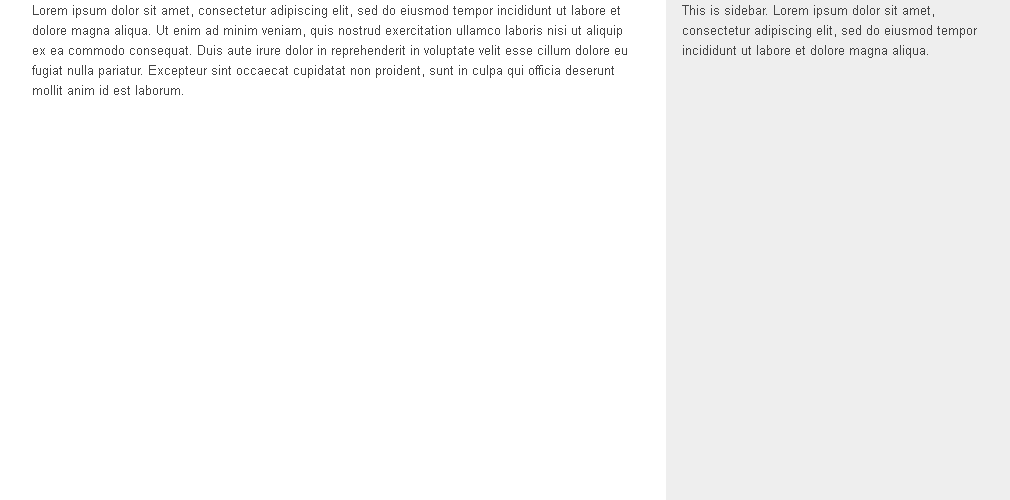
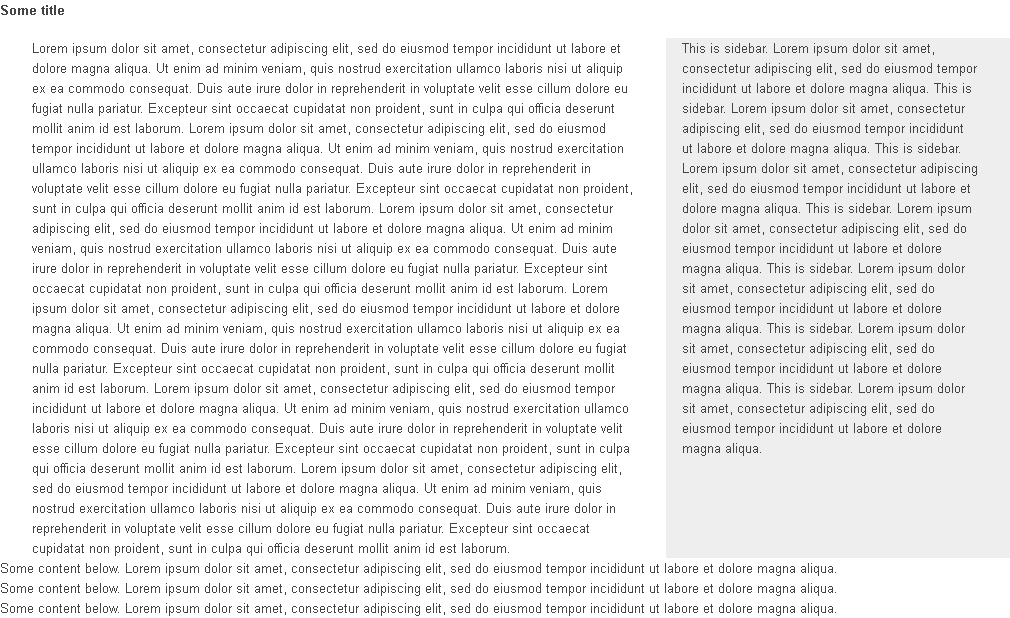
RG-1340 make content-layout's responsiveness configurable
Former-commit-id: f87f233e83b9f64035dc9dc5b3d9487c27fd85a3

diff --git a/components/content-layout/content-layout.examples.html b/components/content-layout/content-layout.examples.html
@@ -50,7 +50,7 @@
         <div>
           <h4>Some title</h4>
         </div>
-        <ContentLayout className="content">
+        <ContentLayout>
           <Sidebar className="sidebar">
             This is sidebar. Lorem ipsum dolor sit amet, consectetur adipiscing elit, sed do eiusmod tempor incididunt ut labore et dolore magna aliqua.
             This is sidebar. Lorem ipsum dolor sit amet, consectetur adipiscing elit, sed do eiusmod tempor incididunt ut labore et dolore magna aliqua.
@@ -88,9 +88,6 @@
       padding: 0;
     }
 
-    :global(.content) {
-      height: 500px;
-    }
     :global(.sidebar) {
       background-color: #EEEEEE;
     }
@@ -103,13 +100,32 @@
      import Sidebar from 'ring-ui/components/content-layout/sidebar';
 
      const renderLayoutDemo = () => (
-       <ContentLayout className="content">
-         <Sidebar className="sidebar" right={true}>
-           This is sidebar. Lorem ipsum dolor sit amet, consectetur adipiscing elit, sed do eiusmod tempor incididunt ut labore et dolore magna aliqua.
-         </Sidebar>
-         Lorem ipsum dolor sit amet, consectetur adipiscing elit, sed do eiusmod tempor incididunt ut labore et dolore magna aliqua. Ut enim ad minim veniam, quis nostrud exercitation ullamco laboris nisi ut aliquip ex ea commodo consequat. Duis aute irure dolor in reprehenderit in voluptate velit esse cillum dolore eu fugiat nulla pariatur. Excepteur sint occaecat cupidatat non proident, sunt in culpa qui officia deserunt mollit anim id est laborum.
-       </ContentLayout>
-     );
+       <div>
+         <div>
+           <h4>Some title</h4>
+         </div>
+         <ContentLayout>
+           <Sidebar className="sidebar" right={true}>
+             This is sidebar. Lorem ipsum dolor sit amet, consectetur adipiscing elit, sed do eiusmod tempor incididunt ut labore et dolore magna aliqua.
+             This is sidebar. Lorem ipsum dolor sit amet, consectetur adipiscing elit, sed do eiusmod tempor incididunt ut labore et dolore magna aliqua.
+             This is sidebar. Lorem ipsum dolor sit amet, consectetur adipiscing elit, sed do eiusmod tempor incididunt ut labore et dolore magna aliqua.
+             This is sidebar. Lorem ipsum dolor sit amet, consectetur adipiscing elit, sed do eiusmod tempor incididunt ut labore et dolore magna aliqua.
+             This is sidebar. Lorem ipsum dolor sit amet, consectetur adipiscing elit, sed do eiusmod tempor incididunt ut labore et dolore magna aliqua.
+             This is sidebar. Lorem ipsum dolor sit amet, consectetur adipiscing elit, sed do eiusmod tempor incididunt ut labore et dolore magna aliqua.
+             This is sidebar. Lorem ipsum dolor sit amet, consectetur adipiscing elit, sed do eiusmod tempor incididunt ut labore et dolore magna aliqua.
+           </Sidebar>
+           Lorem ipsum dolor sit amet, consectetur adipiscing elit, sed do eiusmod tempor incididunt ut labore et dolore magna aliqua. Ut enim ad minim veniam, quis nostrud exercitation ullamco laboris nisi ut aliquip ex ea commodo consequat. Duis aute irure dolor in reprehenderit in voluptate velit esse cillum dolore eu fugiat nulla pariatur. Excepteur sint occaecat cupidatat non proident, sunt in culpa qui officia deserunt mollit anim id est laborum.
+           Lorem ipsum dolor sit amet, consectetur adipiscing elit, sed do eiusmod tempor incididunt ut labore et dolore magna aliqua. Ut enim ad minim veniam, quis nostrud exercitation ullamco laboris nisi ut aliquip ex ea commodo consequat. Duis aute irure dolor in reprehenderit in voluptate velit esse cillum dolore eu fugiat nulla pariatur. Excepteur sint occaecat cupidatat non proident, sunt in culpa qui officia deserunt mollit anim id est laborum.
+           Lorem ipsum dolor sit amet, consectetur adipiscing elit, sed do eiusmod tempor incididunt ut labore et dolore magna aliqua. Ut enim ad minim veniam, quis nostrud exercitation ullamco laboris nisi ut aliquip ex ea commodo consequat. Duis aute irure dolor in reprehenderit in voluptate velit esse cillum dolore eu fugiat nulla pariatur. Excepteur sint occaecat cupidatat non proident, sunt in culpa qui officia deserunt mollit anim id est laborum.
+           Lorem ipsum dolor sit amet, consectetur adipiscing elit, sed do eiusmod tempor incididunt ut labore et dolore magna aliqua. Ut enim ad minim veniam, quis nostrud exercitation ullamco laboris nisi ut aliquip ex ea commodo consequat. Duis aute irure dolor in reprehenderit in voluptate velit esse cillum dolore eu fugiat nulla pariatur. Excepteur sint occaecat cupidatat non proident, sunt in culpa qui officia deserunt mollit anim id est laborum.
+           Lorem ipsum dolor sit amet, consectetur adipiscing elit, sed do eiusmod tempor incididunt ut labore et dolore magna aliqua. Ut enim ad minim veniam, quis nostrud exercitation ullamco laboris nisi ut aliquip ex ea commodo consequat. Duis aute irure dolor in reprehenderit in voluptate velit esse cillum dolore eu fugiat nulla pariatur. Excepteur sint occaecat cupidatat non proident, sunt in culpa qui officia deserunt mollit anim id est laborum.
+           Lorem ipsum dolor sit amet, consectetur adipiscing elit, sed do eiusmod tempor incididunt ut labore et dolore magna aliqua. Ut enim ad minim veniam, quis nostrud exercitation ullamco laboris nisi ut aliquip ex ea commodo consequat. Duis aute irure dolor in reprehenderit in voluptate velit esse cillum dolore eu fugiat nulla pariatur. Excepteur sint occaecat cupidatat non proident, sunt in culpa qui officia deserunt mollit anim id est laborum.
+         </ContentLayout>
+        <div>Some content below. Lorem ipsum dolor sit amet, consectetur adipiscing elit, sed do eiusmod tempor incididunt ut labore et dolore magna aliqua.</div>
+        <div>Some content below. Lorem ipsum dolor sit amet, consectetur adipiscing elit, sed do eiusmod tempor incididunt ut labore et dolore magna aliqua.</div>
+        <div>Some content below. Lorem ipsum dolor sit amet, consectetur adipiscing elit, sed do eiusmod tempor incididunt ut labore et dolore magna aliqua.</div>
+     </div>
+    );
 
      render(renderLayoutDemo(), document.getElementById('example'));
   </file>

diff --git a/components/content-layout/content-layout.css b/components/content-layout/content-layout.css
@@ -44,7 +44,7 @@
   top: 0;
   bottom: 0;
   && {
-    position: fixed  ;
+    position: fixed;
   }
 }
 
@@ -61,37 +61,48 @@
   bottom: 0;
 }
 
-@media extra-small-screen-media, small-screen-media {
-  .contentLayoutContent {
-    margin: 0 16px;
+.contentLayoutResponsive {
+
+  @media extra-small-screen-media, small-screen-media {
+    & .contentLayoutContent {
+      margin: 0 16px;
+    }
+
+    & .sidebar {
+      position: absolute;
+      top: 0;
+      bottom: 0;
+      left: 0;
+      box-sizing: content-box;
+      padding: 0 16px;
+    }
+
+    & .sidebarFixedTop {
+      position: fixed;
+    }
+
+    & .sidebarFixedBottom {
+      top: auto;
+    }
+
+    & .sidebarRight {
+      left: auto;
+      right: 0;
+    }
+
+    & .sidebarContainer {
+      min-width: 0;
+      max-width: 0;
+    }
   }
 
-  .sidebar {
-    position: absolute;
-    top: 0;
-    bottom: 0;
-    left: 0;
-    box-sizing: content-box;
-    padding: 0 16px;
+  @media extra-small-screen-media {
+    & .sidebar {
+      min-width: 0;
+      max-width: none;
+      width: 80%;
+    }
   }
 
-  .sidebarRight {
-    left: auto;
-    right: 0;
-  }
-
-  .sidebarContainer {
-    min-width: 0;
-    max-width: 0;
-  }
 }
-
-@media extra-small-screen-media {
-  .sidebar {
-    min-width: 0;
-    max-width: none;
-    width: 80%;
-  }
-}
-
 

diff --git a/components/content-layout/content-layout.js b/components/content-layout/content-layout.js
@@ -18,7 +18,12 @@ export default class ContentLayout extends Component {
 
   static propTypes = {
     children: PropTypes.node,
-    className: PropTypes.string
+    className: PropTypes.string,
+    responsive: PropTypes.bool
+  };
+
+  defaultProps = {
+    responsive: true
   };
 
   saveContentNode = contentNode => {
@@ -26,8 +31,10 @@ export default class ContentLayout extends Component {
   }
 
   render() {
-    const {children, className, ...restProps} = this.props;
-    const classes = classNames(styles.contentLayout, className);
+    const {children, className, responsive, ...restProps} = this.props;
+    const classes = classNames(styles.contentLayout, className, {
+      [styles.contentLayoutResponsive]: responsive
+    });
 
     const childrenArray = React.Children.toArray(children);
     const sidebarChild = childrenArray.filter(child => child && child.type === Sidebar)[0];
